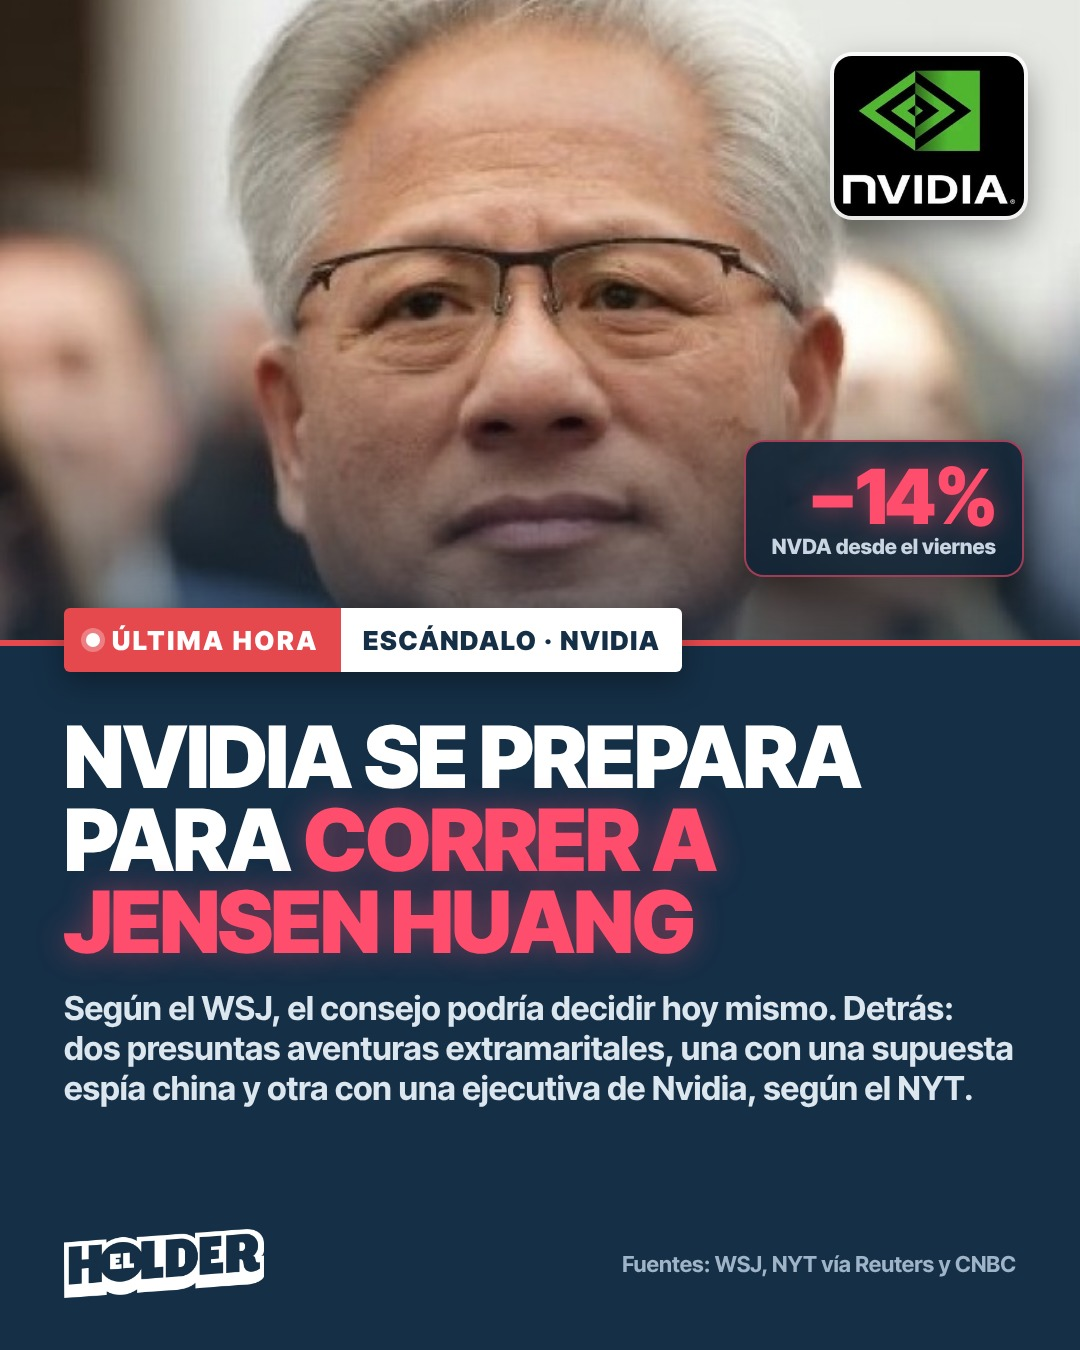
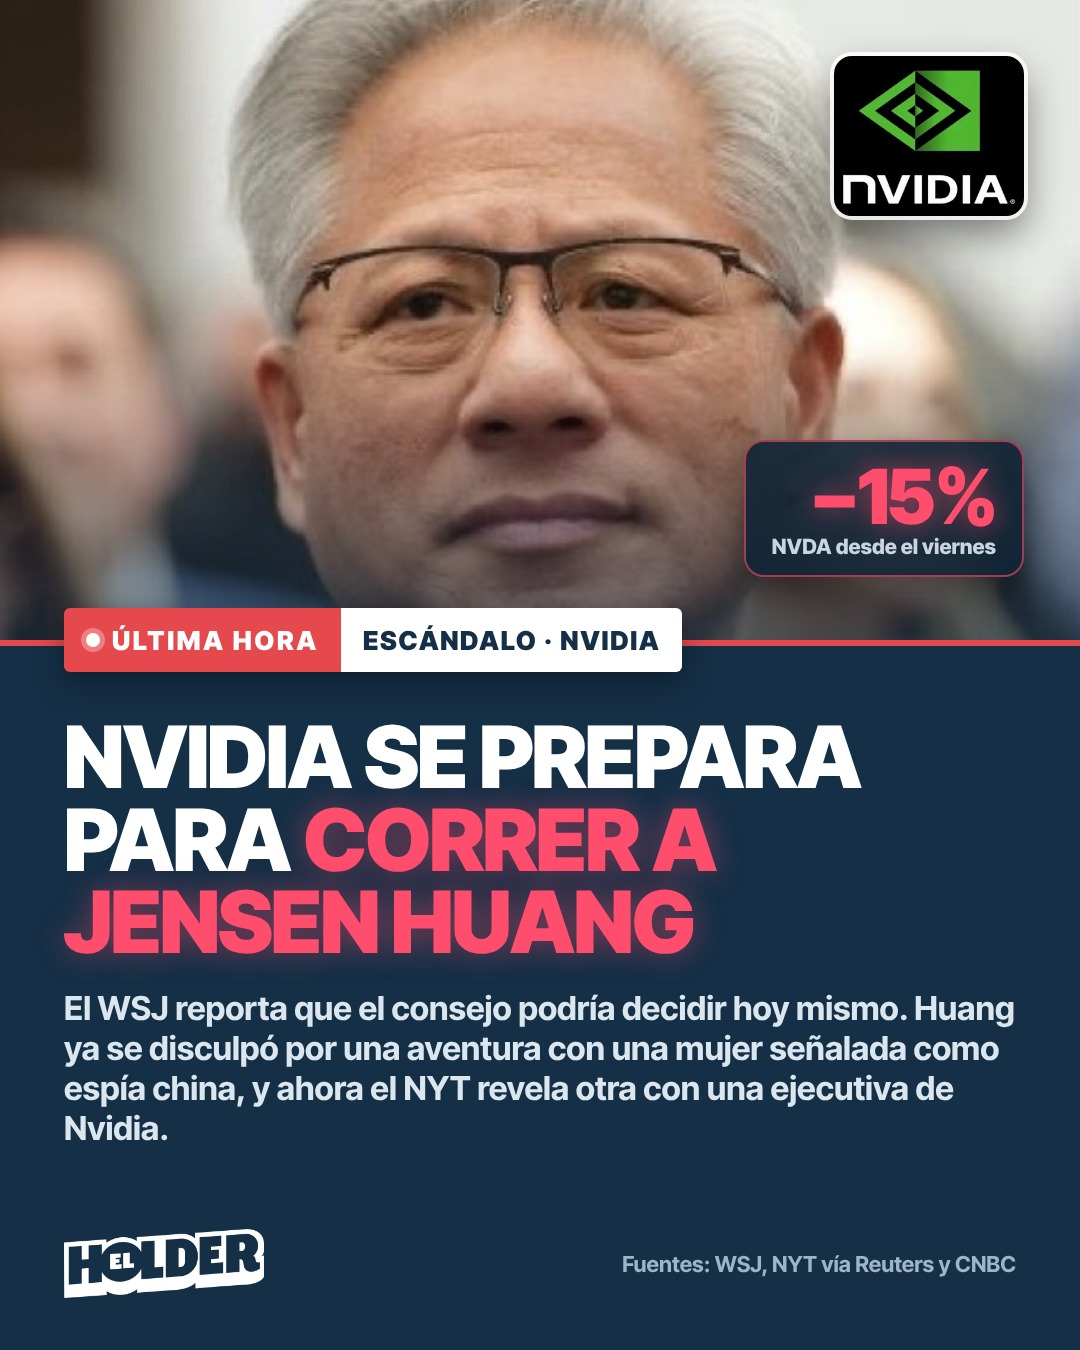
Nvidia: texto afirmativo y gráfica real de TradingView
Claude-Session: https://claude.ai/code/session_01QwPVdY6K4deCfiRsgEEvgq

Changed region(s): [[0.0611, 0.7156, 0.9472, 0.8711], [0.7944, 0.3422, 0.8861, 0.4044]]

diff --git a/carruseles/2026-11-11-noticia-nvidia-huang/src/slide-02.html b/carruseles/2026-11-11-noticia-nvidia-huang/src/slide-02.html
@@ -1,25 +1,22 @@
 <!doctype html><html><head><meta charset="utf-8"><style>@font-face{font-family:'IT';font-weight:700;src:url('../../../fonts/inter-tight-latin-700-normal.woff2')}
 @font-face{font-family:'IT';font-weight:800;src:url('../../../fonts/inter-tight-latin-800-normal.woff2')}
 @font-face{font-family:'IT';font-weight:900;src:url('../../../fonts/inter-tight-latin-900-normal.woff2')}
-html,body{margin:0}*{box-sizing:border-box}
+html,
 body{width:1080px;height:1350px;overflow:hidden;font-family:IT;color:#fff;background:radial-gradient(120% 90% at 15% 0%,#1E3F5E 0%,#152F46 45%,#0F2335 100%);position:relative}
-.hero{position:absolute;left:58px;top:70px;font-weight:900;font-size:190px;line-height:.9;letter-spacing:-.06em;color:#FF4D6D;text-shadow:0 0 44px rgba(255,77,109,.6)}
-.sub{position:absolute;left:64px;right:64px;top:265px;font-weight:900;font-size:50px;line-height:1.05;letter-spacing:-.03em}
+.hero{position:absolute;left:58px;top:70px;font-weight:900;font-size:200px;line-height:.9;letter-spacing:-.06em;color:#FF4D6D;text-shadow:0 0 44px rgba(255,77,109,.6)}
+.sub{position:absolute;left:64px;right:64px;top:270px;font-weight:900;font-size:54px;line-height:1.04;letter-spacing:-.03em}
 .sub span{color:#4FC3FF}
-.cap{position:absolute;left:64px;top:390px;font-weight:800;font-size:28px;color:#C9D6E2}
-.ch{position:absolute;left:90px;top:470px}
-.k{position:absolute;left:64px;right:64px;top:1080px;display:flex;gap:20px}
-.k div{flex:1;background:rgba(255,255,255,.05);border:2px solid rgba(255,255,255,.1);border-radius:18px;padding:18px 22px}
-.k b{display:block;font-weight:900;font-size:44px;letter-spacing:-.03em;color:#FF4D6D}.k span{font-weight:700;font-size:20px;color:#C9D6E2}
+.shot{position:absolute;left:52px;right:52px;top:420px;background:#fff;border-radius:22px;padding:16px;box-shadow:0 20px 60px rgba(0,0,0,.5)}
+.shot img{width:100%;display:block;border-radius:10px}
+.k{position:absolute;left:64px;right:64px;top:1095px;display:flex;gap:20px}
+.k div{flex:1;background:rgba(255,255,255,.05);border:2px solid rgba(255,255,255,.1);border-radius:18px;padding:16px 22px}
+.k b{display:block;font-weight:900;font-size:46px;letter-spacing:-.03em;color:#FF4D6D}.k span{font-weight:700;font-size:20px;color:#C9D6E2}
 .logo{position:absolute;left:64px;bottom:44px;width:180px}
 .src{position:absolute;right:64px;bottom:50px;font-weight:700;font-size:19px;color:#8FA3B7;text-align:right;line-height:1.35}
 </style></head><body>
-<div class="hero">−14%</div>
-<div class="sub">cae Nvidia en 3 días de escándalo. <span>Así se ve el golpe:</span></div>
-<div class="cap">Precio de la acción NVDA, en dólares</div>
-<div class="ch"><svg width="900" height="580" viewBox="0 0 900 580" style="overflow:visible"><defs><linearGradient id="gr" x1="0" y1="0" x2="0" y2="1"><stop offset="0" stop-color="#FF4D6D" stop-opacity=".3"/><stop offset="1" stop-color="#FF4D6D" stop-opacity="0"/></linearGradient></defs>
-<line x1="0" y1="500" x2="900" y2="500" stroke="rgba(255,255,255,.18)" stroke-width="2"/><path d="M60,500 L60,122 L255,200 L450,295 L645,248 L840,378 L840,500 Z" fill="url(#gr)"/>
-<polyline points="60,122 255,200 450,295 645,248 840,378" fill="none" stroke="#FF4D6D" stroke-width="7" stroke-linejoin="round" style="filter:drop-shadow(0 0 14px rgba(255,77,109,.8))"/><circle cx="60" cy="122" r="9" fill="#fff" style="filter:drop-shadow(0 0 10px #fff)"/><text x="60" y="94" text-anchor="middle" fill="#fff" font-size="28" font-weight="900" font-family="IT">$186.64</text><text x="60" y="536" text-anchor="middle" fill="#C9D6E2" font-size="22" font-weight="800" font-family="IT">Viernes</text><text x="60" y="562" text-anchor="middle" fill="#8FA3B7" font-size="18" font-weight="700" font-family="IT">cierre</text><circle cx="255" cy="200" r="9" fill="#FF4D6D" style="filter:drop-shadow(0 0 10px #FF4D6D)"/><text x="255" y="172" text-anchor="middle" fill="#FF4D6D" font-size="28" font-weight="900" font-family="IT">$178.67</text><text x="255" y="248" text−anchor="middle" fill="#FF4D6D" font−size="24" font−weight="800" font−family="IT">−4.3%</text><text x="255" y="536" text-anchor="middle" fill="#C9D6E2" font-size="22" font-weight="800" font-family="IT">Lunes</text><text x="255" y="562" text-anchor="middle" fill="#8FA3B7" font-size="18" font-weight="700" font-family="IT">cierre</text><circle cx="450" cy="295" r="9" fill="#FF4D6D" style="filter:drop-shadow(0 0 10px #FF4D6D)"/><text x="450" y="267" text-anchor="middle" fill="#FF4D6D" font-size="28" font-weight="900" font-family="IT">$168.89</text><text x="450" y="343" text−anchor="middle" fill="#FF4D6D" font−size="24" font−weight="800" font−family="IT">−5.5%</text><text x="450" y="536" text-anchor="middle" fill="#C9D6E2" font-size="22" font-weight="800" font-family="IT">Martes</text><text x="450" y="562" text-anchor="middle" fill="#8FA3B7" font-size="18" font-weight="700" font-family="IT">cierre</text><circle cx="645" cy="248" r="9" fill="#5EE0A8" style="filter:drop-shadow(0 0 10px #5EE0A8)"/><text x="645" y="220" text-anchor="middle" fill="#5EE0A8" font-size="28" font-weight="900" font-family="IT">$173.73</text><text x="645" y="296" text−anchor="middle" fill="#5EE0A8" font−size="24" font−weight="800" font−family="IT">+2.9%</text><text x="645" y="536" text-anchor="middle" fill="#C9D6E2" font-size="22" font-weight="800" font-family="IT">Miércoles</text><text x="645" y="562" text-anchor="middle" fill="#8FA3B7" font-size="18" font-weight="700" font-family="IT">cierre</text><circle cx="840" cy="378" r="14" fill="#FF4D6D" style="filter:drop-shadow(0 0 10px #FF4D6D)"/><text x="860" y="460" text-anchor="end" fill="#FF4D6D" font-size="38" font-weight="900" font-family="IT">$160.45</text><text x="840" y="426" text−anchor="middle" fill="#FF4D6D" font−size="24" font−weight="800" font−family="IT">−7.6%</text><text x="840" y="536" text-anchor="middle" fill="#C9D6E2" font-size="22" font-weight="800" font-family="IT">Miércoles</text><text x="840" y="562" text-anchor="middle" fill="#8FA3B7" font-size="18" font-weight="700" font-family="IT">after-hours</text></svg></div>
-<div class="k"><div><b>~$400B</b><span>borrados en solo 2 sesiones</span></div><div><b>−$16B</b><span>la fortuna de Huang en 2 días</span></div></div>
-<img class="logo" src="../../../brand/logo-horizontal-transparente.png"><div class="src">Fuentes: Korea JoongAng Daily, OfficeChai, Forbes<br>After-hours del 11 nov · No es asesoría financiera</div>
+<div class="hero">−9%</div>
+<div class="sub">en minutos, después de la nota del NYT. <span>Así se desplomó Nvidia:</span></div>
+<div class="shot"><img src="tradingview-nvda-1d.png"></div>
+<div class="k"><div><b>−24%</b><span>en el último mes</span></div><div><b>~$400B</b><span>borrados en 2 sesiones</span></div></div>
+<img class="logo" src="../../../brand/logo-horizontal-transparente.png"><div class="src">Captura: TradingView, 11 nov 2026, 4:18 pm<br>Fuentes: WSJ, NYT · No es asesoría financiera</div>
 </body></html>

diff --git a/carruseles/2026-11-11-noticia-nvidia-huang/src/slide-01.html b/carruseles/2026-11-11-noticia-nvidia-huang/src/slide-01.html
@@ -23,11 +23,11 @@ p{margin:0;font-weight:700;font-size:33px;line-height:1.22;color:#DCE6EF}
 </style></head><body>
 <div id="foto"></div><div id="bar"></div>
 <div id="nv"><img src="nvda.png"></div>
-<div id="stat"><b>−14%</b><span>NVDA desde el viernes</span></div>
+<div id="stat"><b>−15%</b><span>NVDA desde el viernes</span></div>
 <div id="pill"><span class="l"><i></i>ÚLTIMA HORA</span><span class="r">ESCÁNDALO · NVIDIA</span></div>
 <div id="txt">
 <h1>Nvidia se prepara para <span class="a">correr a Jensen Huang</span></h1>
-<p>Según el WSJ, el consejo podría decidir hoy mismo. Detrás: dos presuntas aventuras extramaritales, una con una supuesta espía china y otra con una ejecutiva de Nvidia, según el NYT.</p>
+<p>El WSJ reporta que el consejo podría decidir hoy mismo. Huang ya se disculpó por una aventura con una mujer señalada como espía china, y ahora el NYT revela otra con una ejecutiva de Nvidia.</p>
 </div>
 <div id="pie"><img src="../../../brand/logo-horizontal-transparente.png"><span>Fuentes: WSJ, NYT vía Reuters y CNBC</span></div>
 </body></html>
